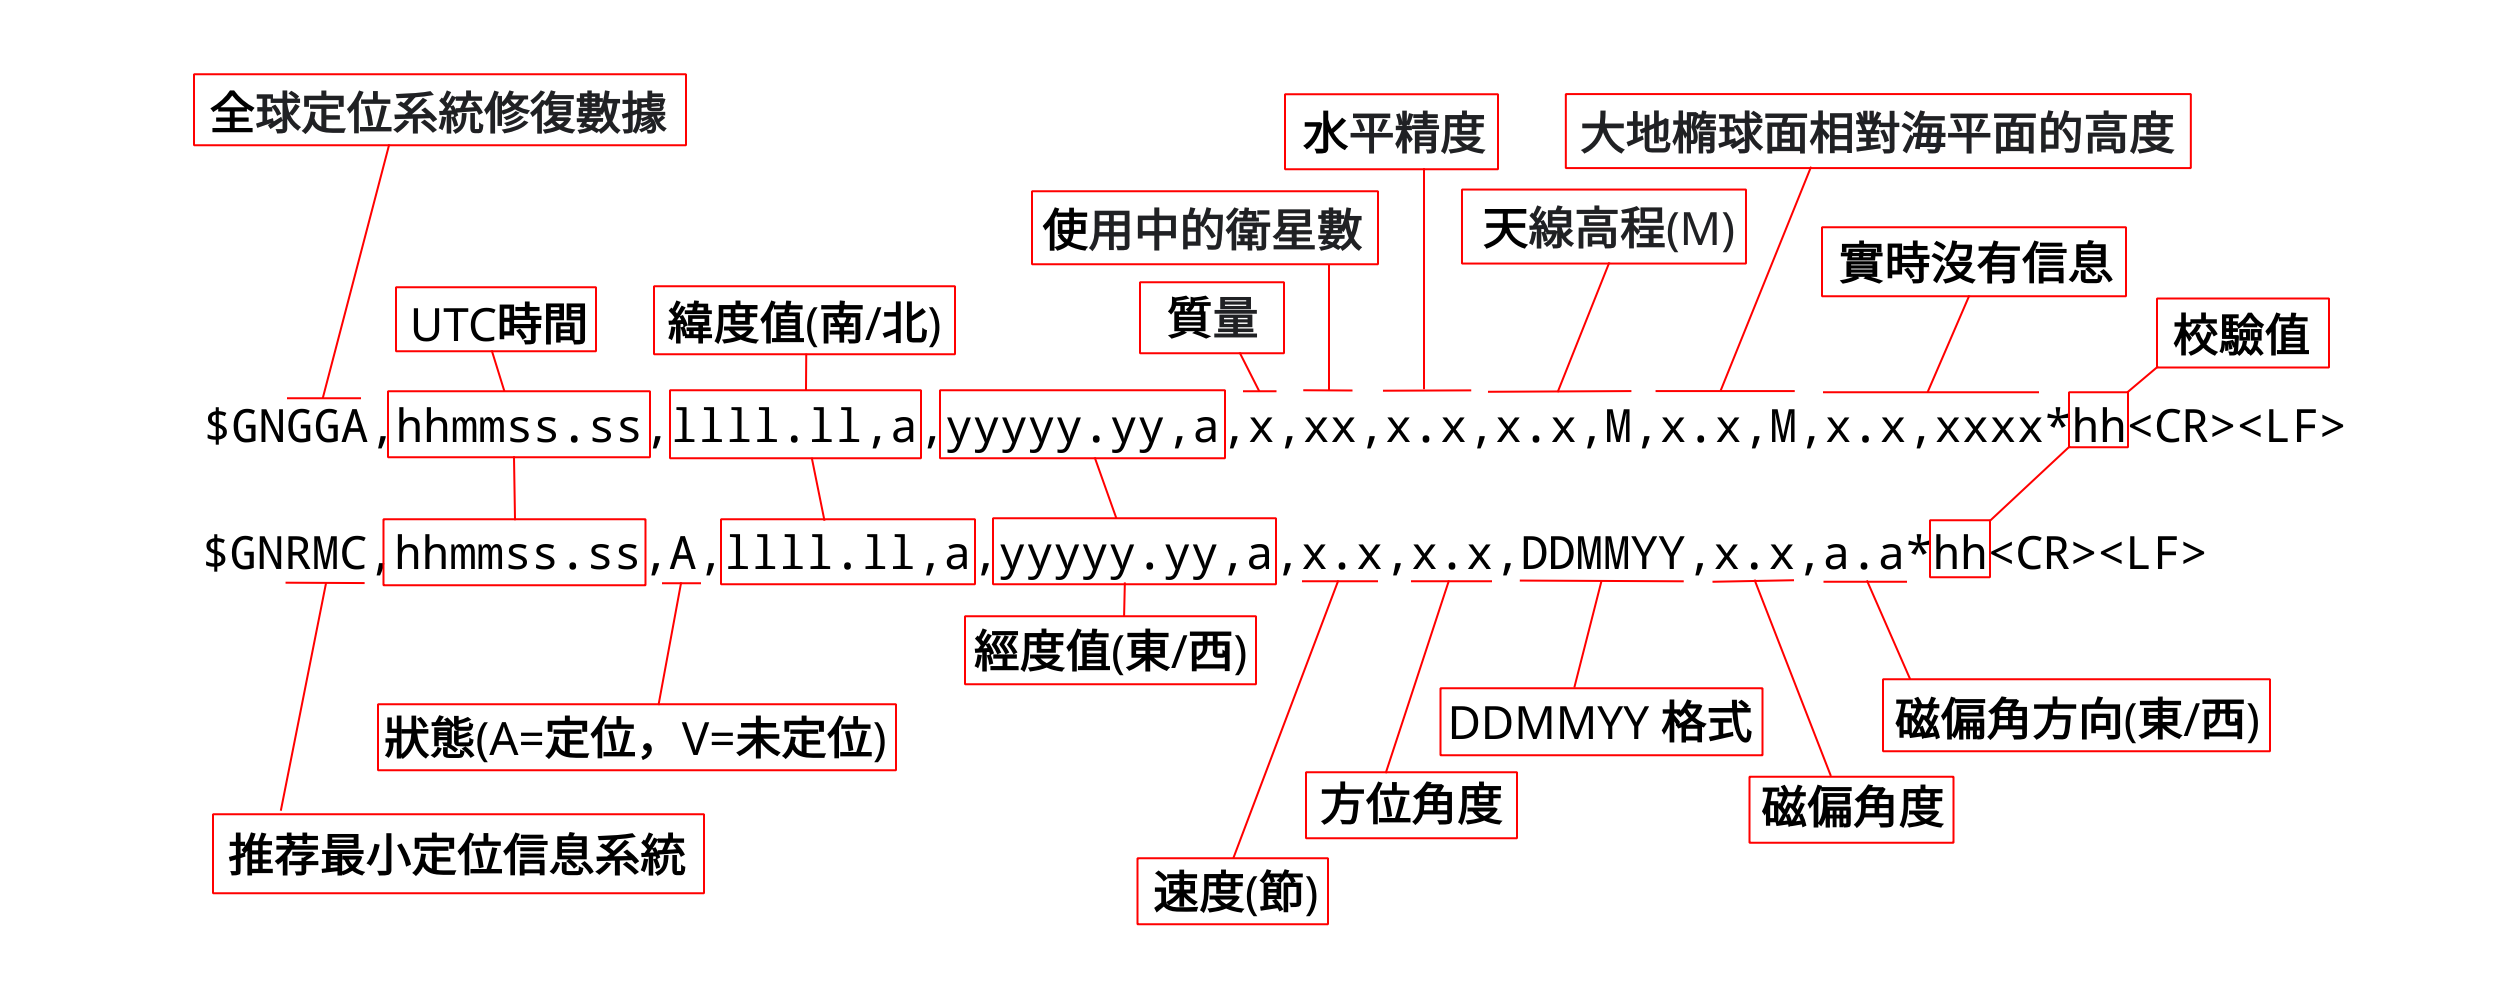
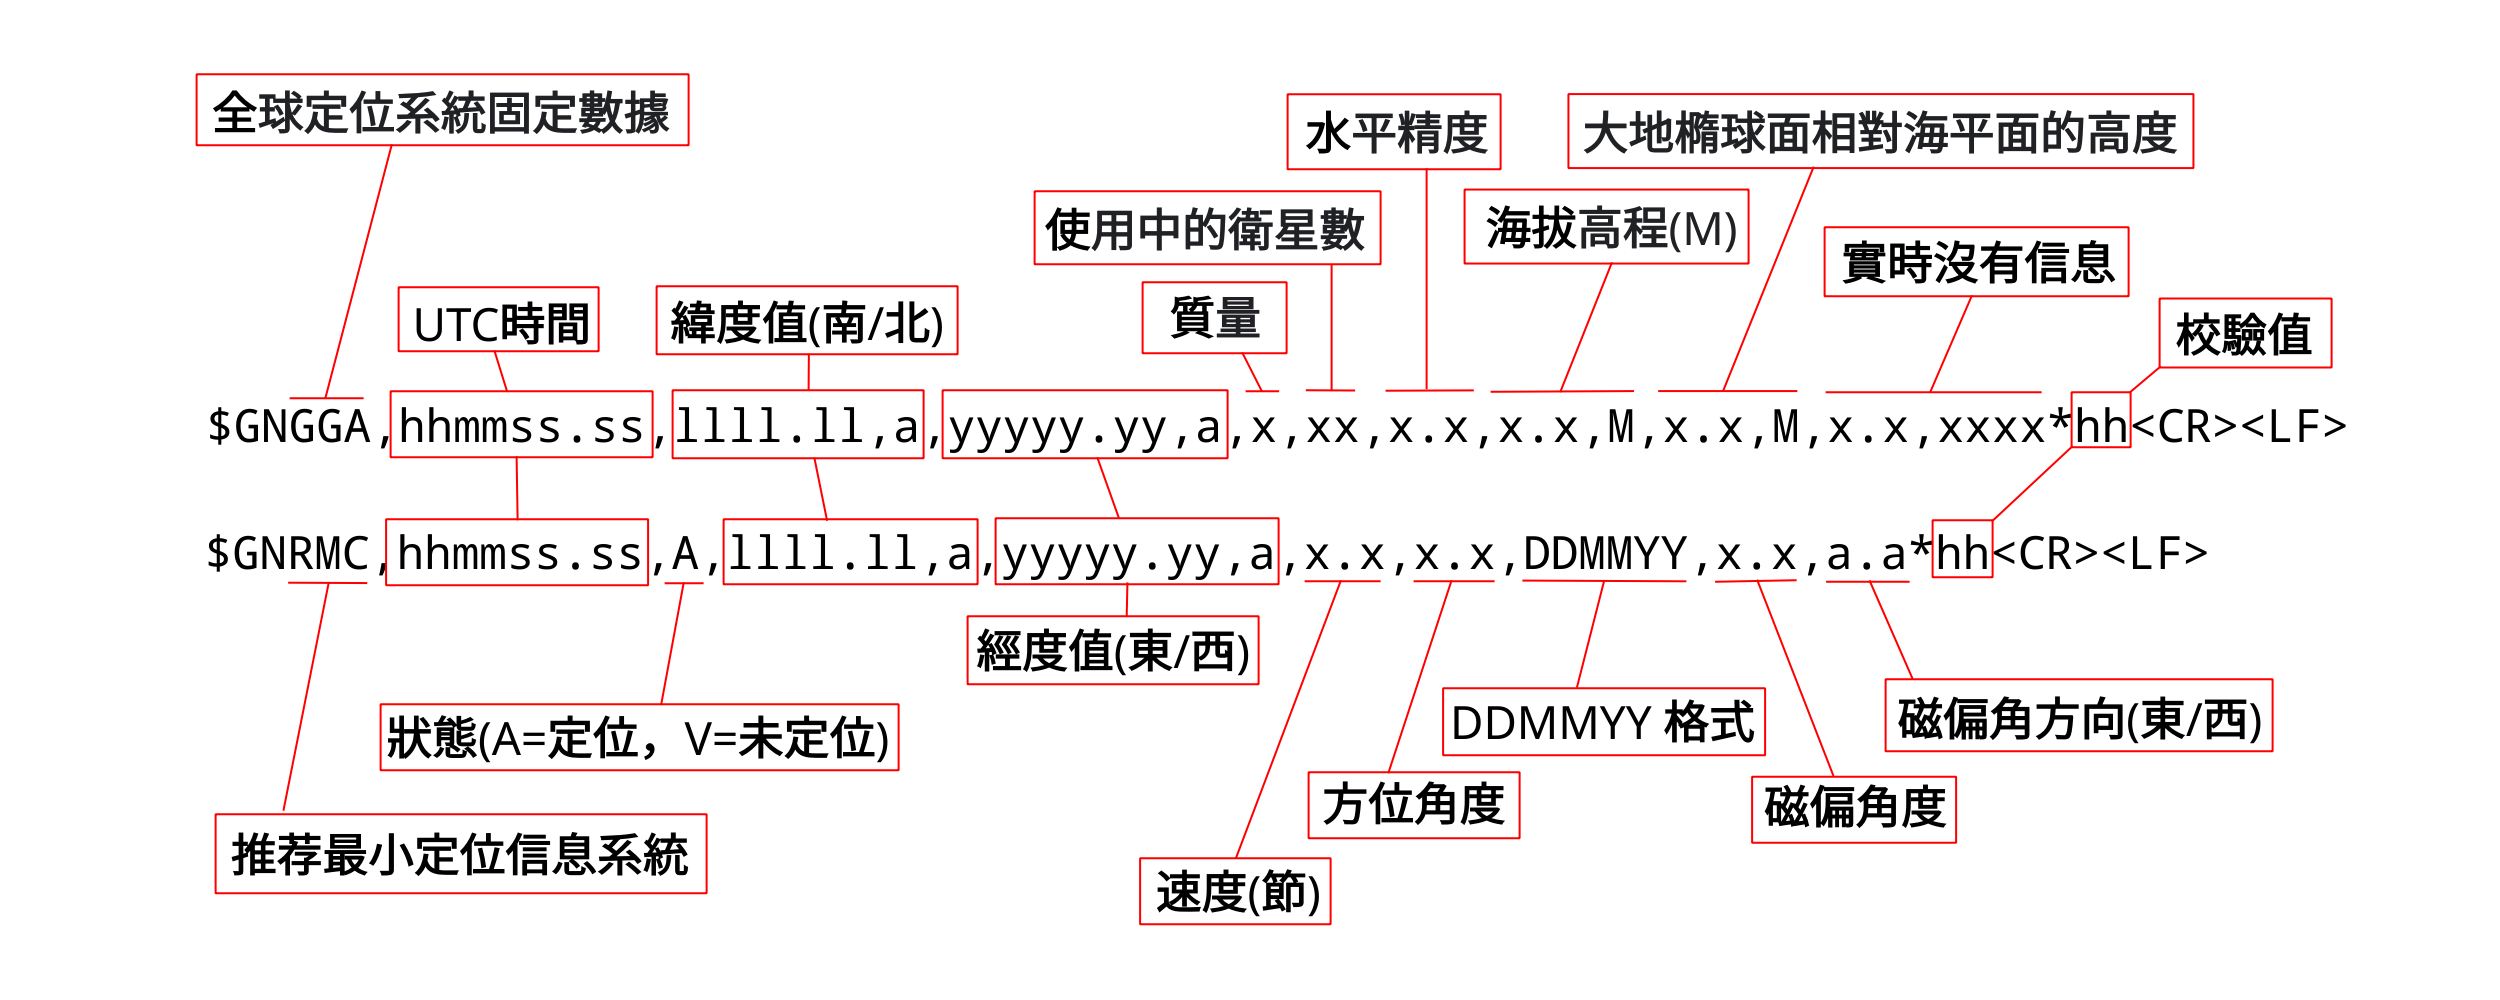
commit

diff --git a/_posts/2021-10-09-bdgps.md b/_posts/2021-10-09-bdgps.md
@@ -73,5 +73,27 @@ $GNRMC,065102.000,A,2223.07749,N,11412.21630,E,0.00,100.53,091021,,,A*71
 |字段9|091021|DDMMYY 日月年 格式|
 |字段10||磁偏角(000 - 180）度|
 |字段11||磁偏角方向 E=東, W=西|
-|字段16|A*54|校驗值|
+|字段12|54|校驗值|
 
+GNGGA例：
+
+$GNGGA,065100.000,2223.07736,N,11412.21642,E,1,11,3.0,55.4,M,0.0,M,,*47
+
+|字段|資料|語句內容|
+|:---:|:---:|:---|
+|字段0|$|起始位符號|
+|字段0|GN|為全球導航衛星定位最小定位信息|
+|字段0|GGA|為Global Positioning System Fix Data全球定位系統固定數據|
+|字段1|065102.000|hhmmss.sss格式|
+|字段2|2223.07749|ddmm.mmmm，度分格式|
+|字段3|N|N=北緯, S=南緯|
+|字段4|11412.21630|dddmm.mmmm，度分格式|
+|字段5|E|E=東經, W=西經|
+|字段7|1|質量 1=成功, 0=失敗|
+|字段8|11|使用中的衛星數|
+|字段9|水平精度|始終為 3.0|
+|字段10|55.4|海拔高度(M)|
+|字段11|大地橢球面相對海平面的高度(M)|始終為 0.0|
+|字段12|實時沒有信息||
+|字段13|實時沒有信息||
+|字段14|47|校驗值|
